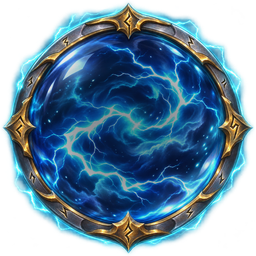
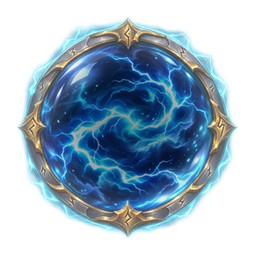
Refine energy, spirit, storm-ring and cost visuals after visual audit

diff --git a/assets/animation/ui/manifest.js b/assets/animation/ui/manifest.js
@@ -1,1 +1,1 @@
[2 lines of base64/hex data omitted]

diff --git a/assets/animation/ui/scripts/authored_energy_20261105.py b/assets/animation/ui/scripts/authored_energy_20261105.py
@@ -1,8 +1,8 @@
 """Derive the 2026-11-05 authored energy/domain art into runtime RGBA exports."""
 from pathlib import Path
-from PIL import Image, ImageDraw, ImageFilter, ImageOps, ImageEnhance
-ROOT = Path(__file__).resolve().parents[3]
-SRC = ROOT / 'assets/animation/ui/source/energy_20261105'
+from PIL import Image, ImageChops, ImageDraw, ImageFilter, ImageOps, ImageEnhance
+ROOT = Path(__file__).resolve().parents[4]
+SRC = Path(__file__).resolve().parents[1] / 'source/energy_20261105'
 UI = ROOT / 'assets/animation/ui/images'
 
 def load(name): return Image.open(SRC / name).convert('RGBA')
@@ -28,11 +28,16 @@ def shade_center(im, strength=0.40, radius=0.62, blur=0.07, tint=(6, 16, 28)):
     dark.putalpha(mask)
     return Image.alpha_composite(im, dark)
 
-def cold(im, brightness=0.34, tint=(40, 52, 70), tint_mix=0.45):
+def cold(im, brightness=0.34, tint=(40, 52, 70), tint_mix=0.45, rim=None):
     gray = ImageOps.grayscale(im.convert('RGB')).point(lambda v: int(v * brightness))
     tinted = Image.blend(gray.convert('RGB'), Image.new('RGB', im.size, tint), tint_mix)
     out = tinted.convert('RGBA')
-    out.putalpha(im.getchannel('A'))
+    alpha = im.getchannel('A')
+    out.putalpha(alpha)
+    if rim is not None:
+        edge = ImageChops.subtract(alpha.filter(ImageFilter.GaussianBlur(6)), alpha.filter(ImageFilter.GaussianBlur(1)))
+        glow = Image.new('RGBA', im.size, (*rim, 0)); glow.putalpha(edge.point(lambda v: int(v * 0.5)))
+        out = Image.alpha_composite(out, glow)
     return out
 
 # 1) charged energy crest (HUD emblem), 256
@@ -40,42 +45,63 @@ crest = trim_square(load('energy_crest_charged.png'), 256)
 crest.save(UI / 'energy_master.png')
 
 # 2) depleted crest, same silhouette
-crest_empty = cold(crest, brightness=0.30, tint=(34, 44, 58), tint_mix=0.52)
+crest_empty = cold(crest, brightness=0.42, tint=(40, 52, 70), tint_mix=0.42, rim=(60, 110, 150))
 crest_empty.save(UI / 'big_energy_empty.png')
 
-# 3) card cost frame: flat opaque numeric centre, ornament only on the rim
+# 3) card cost frame: simple gold ring, flat opaque numeric centre
 cost = trim_square(load('cost_badge.png'), 74)
 d = ImageDraw.Draw(cost)
-centre = cost.getpixel((37, 36))
-if centre[3] < 255:
-    centre = (18, 33, 48, 255)
-    d.ellipse((16, 13, 58, 61), fill=centre)
-else:
-    d.ellipse((16, 13, 58, 61), fill=(centre[0], centre[1], centre[2], 255))
+d.ellipse((14, 14, 60, 60), fill=(13, 24, 46, 255))
 for x in range(25, 49):
     for y in range(22, 52):
-        cost.putpixel((x, y), (centre[0], centre[1], centre[2], 255))
+        cost.putpixel((x, y), (13, 24, 46, 255))
 cost.save(UI / 'big_energy.png')
 
-# 4) energy orb art: charged + depleted, darkened centre keeps the number readable
+# 4) charged orb: slightly smaller inside the 128 control, softer outer bloom
 orb = trim_square(load('energy_orb_charged.png'), 256)
 orb = shade_center(orb, strength=0.46, radius=0.60)
-orb.save(UI / 'energy_orb_charged.png')
-orb_empty = cold(orb, brightness=0.30, tint=(28, 38, 52), tint_mix=0.55)
-orb_empty.save(UI / 'energy_orb_empty.png')
+inner = orb.resize((225, 225), Image.LANCZOS)
+framed = Image.new('RGBA', (256, 256), (0, 0, 0, 0))
+framed.alpha_composite(inner, (15, 15))
+# keep the painted detail, mute only the halo that used to blow out the screen edge
+px = framed.load()
+for x in range(256):
+    for y in range(256):
+        dx, dy = (x - 128) / 128.0, (y - 128) / 128.0
+        r = (dx * dx + dy * dy) ** 0.5
+        if r > 0.44:
+            f = max(0.55, 1.0 - (r - 0.44) * 0.9)
+            rr, gg, bb, aa = px[x, y]
+            px[x, y] = (rr, gg, bb, int(aa * f))
+framed.save(UI / 'energy_orb_charged.png')
 
-# 5) suppression seal used by the disabled overlays (no text)
+# 5) depleted orb: cold cracked glass with visible structure, never a flat grey disc
+source = Image.open(UI / 'energy_orb_charged.png').convert('RGBA')
+luma = ImageOps.grayscale(source.convert('RGB'))
+detail = luma.point(lambda v: int(min(255, 26 + v * 0.62)))
+steel = ImageOps.colorize(detail, (10, 17, 28), (126, 164, 190))
+steel = steel.convert('RGBA'); steel.putalpha(source.getchannel('A'))
+# faint dormant charge in the old lightning paths
+mask = luma.point(lambda v: int(max(0, (v - 120)) * 1.4))
+glow = Image.new('RGBA', source.size, (96, 168, 205, 0)); glow.putalpha(mask.point(lambda v: int(v * 0.30)))
+empty_orb = Image.alpha_composite(steel, glow)
+empty_orb.save(UI / 'energy_orb_empty.png')
+
+# 6) suppression seal used by the disabled overlays (no text), calmer so intents stay readable
 seal = trim_square(load('suppress_rune.png'), 128)
-seal = ImageEnhance.Brightness(seal).enhance(0.86)
+seal = ImageEnhance.Brightness(seal).enhance(0.76)
 seal.save(UI / 'domain_suppress_seal.png')
 
-# 6) storm aura texture: keep the wide ground ellipse, modest padding
+# 7) storm aura texture: wide ground ellipse with compressed highlights (no blown white)
 aura = load('storm_aura.png')
 alpha = aura.getchannel('A').point(lambda a: 255 if a > 8 else 0)
 aura = aura.crop(alpha.getbbox())
 w, h = aura.size
 target_w = 1024
 aura = aura.resize((target_w, round(h * target_w / w)), Image.LANCZOS)
+keep_alpha = aura.getchannel('A')
+rgb = aura.convert('RGB').point(lambda v: int(min(232, v * 0.93)))
+aura = rgb.convert('RGBA'); aura.putalpha(keep_alpha)
 pad = Image.new('RGBA', (target_w, round(aura.height * 1.12)), (0, 0, 0, 0))
 pad.alpha_composite(aura, (0, (pad.height - aura.height) // 2))
 pad.save(UI / 'domain_storm_aura.png')

diff --git a/src/Volibear/Presentation/DomainStormRing.cs b/src/Volibear/Presentation/DomainStormRing.cs
@@ -24,7 +24,7 @@ internal static class DomainStormRing
             var aura = new Sprite2D { Name = "StormAura", Texture = texture, Centered = true, Material = Light() };
             root.AddChild(aura);
             var inner = new Sprite2D { Name = "StormAuraInner", Texture = texture, Centered = true, Material = Light(),
-                Modulate = new Color(.75f, .92f, 1f, .55f) };
+                Modulate = new Color(.72f, .90f, 1f, .34f) };
             root.AddChild(inner);
         }
         // A few procedural spikes keep the field alive between painted keyframes.
@@ -46,7 +46,7 @@ internal static class DomainStormRing
             float scale = 620f / texture.GetWidth();
             aura.Position = new Vector2(0, -30f);
             aura.Scale = new Vector2(scale * breathe, scale * (2f - breathe));
-            aura.Modulate = new Color(1f, 1f, 1f, .86f + .14f * (.5f + .5f * Mathf.Sin(time * 2.6f)));
+            aura.Modulate = new Color(.94f, .98f, 1f, .84f + .12f * (.5f + .5f * Mathf.Sin(time * 2.6f)));
         }
         if (root.GetNodeOrNull<Sprite2D>("StormAuraInner") is { Texture: { } innerTexture } inner)
         {
@@ -54,7 +54,7 @@ internal static class DomainStormRing
             inner.Position = new Vector2(0, -22f);
             inner.Scale = new Vector2(scale * (2f - breathe), scale * breathe);
             inner.Rotation = .015f * Mathf.Sin(time * .7f);
-            inner.Modulate = new Color(.8f, .95f, 1f, .38f + .12f * (.5f + .5f * Mathf.Sin(time * 1.9f + 1.2f)));
+            inner.Modulate = new Color(.78f, .94f, 1f, .26f + .08f * (.5f + .5f * Mathf.Sin(time * 1.9f + 1.2f)));
         }
         var bolts = root.GetNodeOrNull<Node2D>("StormBolts");
         if (bolts is null) return;

diff --git a/src/Volibear/Presentation/VolibearPresentationBridge.DomainSpirit.cs b/src/Volibear/Presentation/VolibearPresentationBridge.DomainSpirit.cs
@@ -71,11 +71,15 @@ public static partial class VolibearPresentationBridge
             void vertex() { vertex_tint = COLOR; }
             void fragment() {
                 vec4 tex = texture(TEXTURE, UV);
-                float light = dot(tex.rgb, vec3(0.299, 0.587, 0.114));
-                vec3 blue = mix(vec3(0.035, 0.22, 0.60), vec3(0.55, 0.91, 1.0), light);
+                // Preserve the painted value structure instead of washing every fibre to one blue:
+                // deep navy shadows, mid blue body, restrained icy highlight, never pure white.
+                float light = clamp(dot(tex.rgb, vec3(0.299, 0.587, 0.114)), 0.0, 1.0);
+                float shaped = pow(light, 1.18);
+                vec3 body = mix(vec3(0.020, 0.115, 0.360), vec3(0.145, 0.470, 0.880), smoothstep(0.0, 0.62, shaped));
+                body = mix(body, vec3(0.560, 0.880, 1.000), smoothstep(0.62, 1.0, shaped) * 0.72);
                 float pulse = 0.5 + 0.5 * sin(TIME * 3.0 + UV.y * 8.0);
-                blue += vec3(0.02, 0.09, 0.14) * pulse;
-                COLOR = vec4(blue, tex.a * 0.84) * vertex_tint;
+                body += vec3(0.010, 0.045, 0.080) * pulse;
+                COLOR = vec4(body, tex.a * 0.84) * vertex_tint;
             }
             """;
     }

diff --git a/src/Volibear/Content/MechanicGlossary.cs b/src/Volibear/Content/MechanicGlossary.cs
@@ -12,7 +12,7 @@ internal static class MechanicGlossary
     internal static IReadOnlyList<Entry> Entries { get; } = new Entry[]
     {
         new("ENGAGE", "迎战", "令目标立即执行当前意图。", "迎战"),
-        new("DOMAIN", "领域", "展开指定轮数，每轮领域持续到下回合抽牌后。领域期间禁用敌方的特殊能力，禁用自身debuff，每抽到状态或诅咒消耗并补抽1张牌，每打出一张攻击牌对全体造成4雷伤。", "领域"),
+        new("DOMAIN", "领域", "展开指定轮数，每轮领域持续到下回合抽牌后。领域期间禁用敌方的特殊能力，禁用自身的负面状态，每抽到状态或诅咒消耗并补抽1张牌，每打出一张攻击牌对全体造成4雷伤。", "领域"),
         new("SUPPRESSION", "领域压制", "压制对敌人有利的特殊效果，例如复活、保护阶段、限伤、不可选和给玩家施加负面效果。保留普通攻击、已有及直接获得的力量与格挡。", "领域"),
         new("ABSORPTION", "吸收", "本次迎战中，发起者的格挡实际挡住的伤害总量。", "吸收"),
         new("LIGHTNING", "雷伤", "法术伤害，受雷势增幅。", "雷伤"),

diff --git a/docs/HANDOFF.md b/docs/HANDOFF.md
@@ -5,6 +5,21 @@
 [LOCAL_AGENT_TASK.md](LOCAL_AGENT_TASK.md)。本页替换此前累积的历史检查点，旧分支、旧 DLL、
 旧测试计数和旧 UI 自动化结果不再作为当前候选的通过证据。
 
+## 视觉审计与第二轮修整（2026-11-06 凌晨）
+
+- 用户要求全面看一遍“不美观”的地方并给方案。做法：用当前构建真实截取 12 张战斗/领域/能量/状态图与 14 张代表卡面（`presentation-acceptance --presentation-mode cards`，356 张全量），另用 `gpt-6-astra` 做第二意见，再由 Lead 对照像素与源码复核。
+- 本轮已修（均为本 Mod 自有资产/表现，未动玩法与数值）：
+  - 能量球：充能球内缩到 128 控件的 ~88%、外泛光压掉一档；耗尽态重做为“冷裂玻璃球”（保留电裂纹结构、冷蓝轮廓），不再是一块纯灰盘；数字遇超额能量（如 `8/3`）转金色、0 能量转冷灰，只改颜色不写文字。
+  - 卡牌耗能框：改为单圈厚金环 + 平整深海军蓝中心，去掉了小尺寸下糊成黑金噪点的青纹与双重描边。
+  - 领域灵体 shader：`tex.a * 0.84` 保持用户决定的 84% 不透明度；改为按亮度三段映射（深海军蓝 → 中蓝 → 受限冰蓝高光）并加了时间脉动，保留毛发与肌肉明暗，白发/串珠不再过曝成白色破洞。
+  - 领域雷圈：贴图高光压到 ≤232（不再有纯白过曝像素），内层叠加透明度从 0.55 降到 0.34、外圈亮度 0.86 收窄，整圈变成一条可读的宽闪电带。
+  - 领域禁用封印：整体压暗到 0.76，盖住意图时不再压过敌人意图数字的亮度。
+  - 文案：领域词条里残留的英文 `debuff` 改为“负面状态”；`docs/文案审核.md` 同步。
+- 需要用户批准的已批准资产修改（本轮未动）：卡面插画重绘 4 张——C02 双爪（第一眼读成碎岩/盾裂，双爪主体与受击物贴边）、U31 万钧连踏（画窗被灰色低模石路占满，熊缩成右上角黑点）、U34 雷甲（只有肩部材质裁片，无头/无完整护甲轮廓）、U13 力量归身（缩略图只有斜向白毛，读不出“归身”）；另有卡面正文 CJK 断行问题（“雷伤”被拆成两行、`2` 与“雷伤”分家、“再”留在行尾），需要按卡逐句加换行或调整措辞。
+- 审计中确认属本体原生 UI、本轮不动的部分：卡框/标题带/正文灰底板、tooltip 队列与宽度、格挡数字芯片、回合横幅位置、右上角版本信息；这些不是本 Mod 资产，强行覆盖会破坏与原版的统一。
+- 真实验证：`domain-visual`（`20261105T163833Z-9263f268`）与 `power-presentation`（`20261105T163916Z-1065e5a0` 附近）均 passed；截图人工核对：空球有结构、超额能量金色、灵体有明暗、雷圈无过曝。
+- 成品已重打并安装：riot_en ZIP `e5eaf5eb…`，DLL `8da49739…`，PCK `282cd81b…`；Steam 正式游戏目录已替换为同一字节。
+
 ## 最新美术与文案优化（2026-11-05 凌晨）
 
 - 用户要求停止跑测试，继续优化图形与文案：领域禁用遮盖、能量框、卡牌耗能框、领域雷圈。

diff --git a/docs/文案审核.md b/docs/文案审核.md
@@ -915,7 +915,7 @@
 
 #### 领域
 
-展开指定轮数，每轮领域持续到下回合抽牌后。领域期间禁用敌方的特殊能力，禁用自身debuff，每抽到状态或诅咒消耗并补抽1张牌，每打出一张攻击牌对全体造成4雷伤。
+展开指定轮数，每轮领域持续到下回合抽牌后。领域期间禁用敌方的特殊能力，禁用自身的负面状态，每抽到状态或诅咒消耗并补抽1张牌，每打出一张攻击牌对全体造成4雷伤。
 
 #### 领域压制
 
